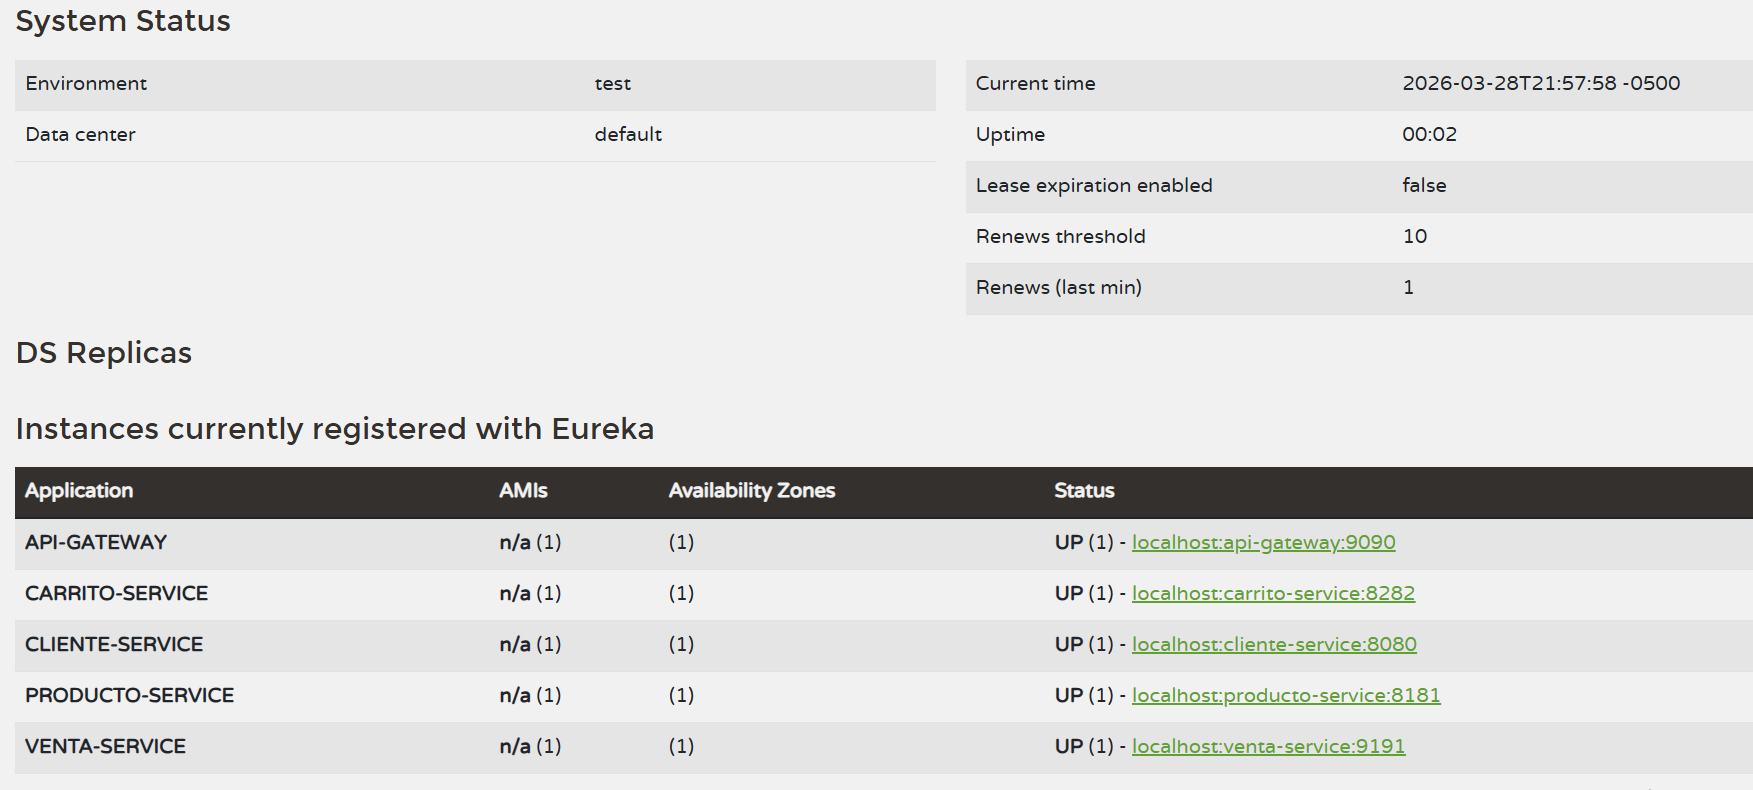
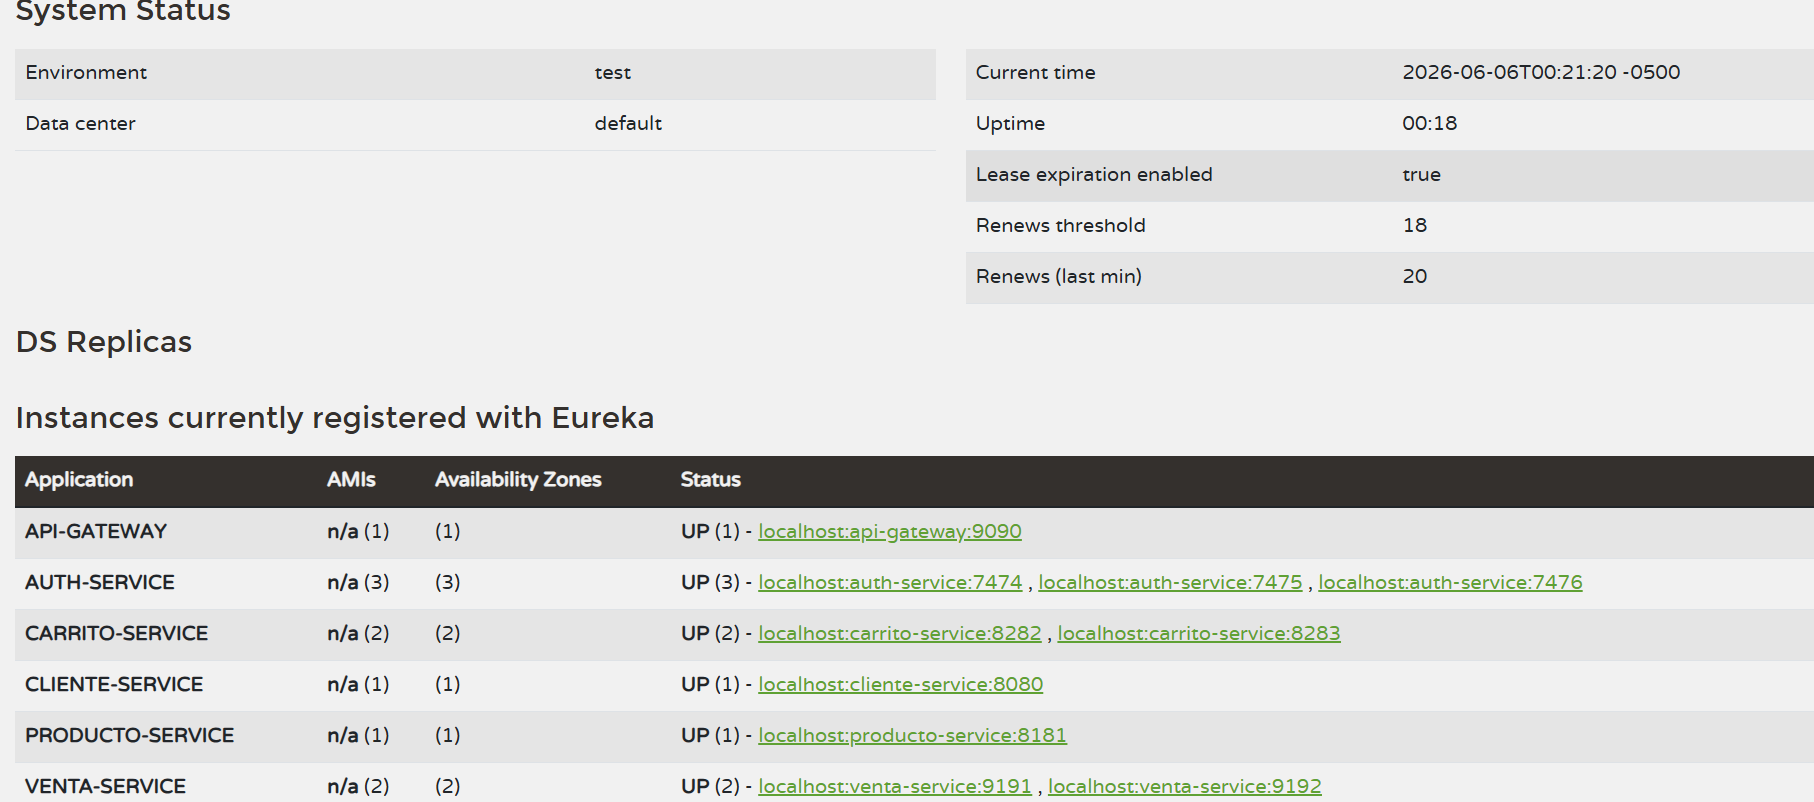
docs: mejorar documentación del proyecto en el README

diff --git a/README.md b/README.md
@@ -1,98 +1,201 @@
-# 🧭 Eureka Server - ElectrodoStore
+<div align="center">
 
-## 📌 Descripción
-Servidor de registro y descubrimiento de servicios para el ecosistema de
-microservicios de ElectrodoStore, basado en **Spring Cloud Netflix Eureka**.
+# 🧭 Eureka Server
 
-Permite que los microservicios se registren automáticamente y se descubran
-entre sí de forma dinámica, sin necesidad de conocer IPs o puertos fijos.
+### Registro y descubrimiento de servicios
+#### ElectrodoStore · Spring Cloud Netflix Eureka
 
----
+![Spring Boot](https://img.shields.io/badge/Spring_Boot-6DB33F?style=for-the-badge&logo=springboot&logoColor=white)
+![Spring Cloud](https://img.shields.io/badge/Spring_Cloud-6DB33F?style=for-the-badge&logo=spring&logoColor=white)
+![Netflix Eureka](https://img.shields.io/badge/Netflix_Eureka-E50914?style=for-the-badge&logo=netflix&logoColor=white)
+![Service Discovery](https://img.shields.io/badge/Service_Discovery-6DB33F?style=for-the-badge&logo=spring&logoColor=white)
 
-## ⚙ Tecnologías utilizadas
-
-- Java + Spring Boot
-- Spring Cloud Netflix Eureka Server
+</div>
 
 ---
 
-## 🔄 ¿Cómo funciona?
+Eureka Server actúa como el registro central de servicios dentro de **ElectrodoStore**.
 
-Al iniciar, cada microservicio se registra en Eureka con su nombre de
-aplicación. Cuando un servicio necesita comunicarse con otro, consulta
-a Eureka para obtener la ubicación de la instancia disponible.
-```
-Microservicio A → Eureka Server → Microservicio B
+Permite que los microservicios se registren automáticamente y descubran dinámicamente otras instancias disponibles sin depender de direcciones IP o puertos fijos.
+
+---
+
+## 🎯 Responsabilidades
+
+- 📍 Registro de microservicios
+- 🔍 Descubrimiento dinámico de servicios
+- ⚖ Soporte para balanceo de carga
+- 🌐 Catálogo centralizado de instancias
+- 🔗 Desacoplamiento entre consumidores y proveedores
+
+---
+
+## 🧰 Stack tecnológico
+
+![Spring Boot](https://img.shields.io/badge/Spring_Boot-6DB33F?style=flat-square&logo=springboot&logoColor=white)
+![Spring Cloud](https://img.shields.io/badge/Spring_Cloud-6DB33F?style=flat-square&logo=spring&logoColor=white)
+![Netflix Eureka](https://img.shields.io/badge/Netflix_Eureka-E50914?style=flat-square&logo=netflix&logoColor=white)
+
+---
+
+## 🌐 Ecosistema registrado
+
+```mermaid
+flowchart LR
+
+Gateway["🌐 API Gateway"]
+Auth["🔐 Auth Service"]
+Cliente["👤 Cliente Service"]
+Producto["🛍 Producto Service"]
+Carrito["🛒 Carrito Service"]
+Venta["💳 Venta Service"]
+Eureka["🧭 Eureka Server"]
+
+Gateway --> Eureka
+Auth --> Eureka
+Cliente --> Eureka
+Producto --> Eureka
+Carrito --> Eureka
+Venta --> Eureka
 ```
 
-Esto permite:
-- Descubrimiento dinámico sin IPs hardcodeadas
-- Detección automática de instancias caídas
-- Soporte para múltiples instancias del mismo servicio
+> Todos los servicios registran su ubicación en Eureka durante el arranque.
+
+---
+
+## 🔄 Descubrimiento de servicios
+
+Cuando un servicio necesita comunicarse con otro, consulta Eureka para obtener las instancias disponibles, eliminando dependencias directas y permitiendo escalar horizontalmente.
+
+```mermaid
+sequenceDiagram
+
+participant Cliente as 👤 Cliente Service
+participant Eureka as 🧭 Eureka Server
+participant Venta as 💳 Venta Service
+
+Cliente->>Eureka: Buscar venta-service
+Eureka-->>Cliente: Instancias registradas
+Cliente->>Venta: GET /ventas/cliente/{id}
+```
+
+---
+
+## ⚖ Integración con Load Balancer
+
+Los consumidores utilizan nombres lógicos de servicio, y Spring Cloud LoadBalancer consulta Eureka para seleccionar una instancia disponible.
+
+<table>
+<tr>
+<th>Via YAML</th>
+<th>Via OpenFeign</th>
+</tr>
+<tr>
+<td>
+
+```yaml
+uri: lb://venta-service
+```
+
+</td>
+<td>
+
+```java
+@FeignClient(name = "venta-service")
+```
+
+</td>
+</tr>
+</table>
 
 ---
 
 ## ⚙ Configuración destacada
 
 | Propiedad | Valor | Descripción |
-|---|---|---|
-| `register-with-eureka` | `false` | El servidor no se registra a sí mismo |
-| `fetch-registry` | `false` | No replica el registro de otros servidores |
-
----
-
-## 🔌 Configuración de red
-
-| Propiedad | Valor |
-|---|---|
-| Puerto | `8761` |
-| Acceso | ✅ Expuesto — acceso al dashboard habilitado |
-| Dashboard | `http://localhost:8761` |
+| --- | --- | --- |
+| `register-with-eureka` | `false` | Eureka no se registra a sí mismo |
+| `fetch-registry` | `false` | No replica registros externos |
 
 ---
 
 ## 📊 Dashboard
 
-Eureka expone un dashboard web en `http://localhost:8761` donde se pueden
-visualizar en tiempo real:
+Eureka expone un panel web para visualizar el estado del ecosistema en tiempo real:
 
-- Servicios registrados
-- Estado de cada instancia
-- Información de cada microservicio
-
+- Servicios registrados y sus instancias
+- Estado de salud de cada servicio
+- Direcciones disponibles
+- Información de descubrimiento
 
 ![Eureka Dashboard](./screenshots/eureka-dashboard.png)
+
+Eureka registrando múltiples instancias de Auth Service, Carrito Service y Venta Service para permitir descubrimiento dinámico y balanceo de carga mediante Spring Cloud LoadBalancer.
+
+| Propiedad | Valor |
+| --- | --- |
+| Puerto | `8761` |
+| Dashboard | `http://localhost:8761` |
+| Acceso | ✅ Interno y administrativo |
+
 ---
 
 ## ▶ Ejecución local
 
-**Con Maven**
+> ⚠ Eureka Server debe iniciarse **después de Config Server** y **antes de cualquier microservicio** consumidor.
+
+### Maven
+
 ```bash
-# Corre en el puerto 8761
 mvn spring-boot:run
 ```
 
-**Con Docker**
+### Docker
+
 ```bash
 docker build -t eureka-server .
 ```
 
-> ⚠ Este servicio debe iniciarse **después del Config Server** y
-> **antes que cualquier microservicio**, ya que todos dependen de él
-> para el descubrimiento dinámico.
+---
+
+## 🏗 Arquitectura
+
+- 🧭 Service Discovery mediante Eureka
+- ⚖ Integración con Spring Cloud LoadBalancer
+- 🔗 Resolución dinámica de dependencias
+- 🌐 Compatible con API Gateway y OpenFeign
+- 📍 Registro automático de instancias
 
 ---
 
 ## 💡 Decisiones de diseño
 
-- `register-with-eureka: false` — el servidor no actúa como cliente de sí mismo
-- `fetch-registry: false` — configuración adecuada para instancia única sin replicación
-- Puerto estándar de Eureka (`8761`) para facilitar integración con herramientas del ecosistema Spring
+<details>
+<summary><b>📍 Descubrimiento dinámico</b></summary>
+<br>
+Los servicios se comunican utilizando nombres lógicos en lugar de direcciones físicas, reduciendo el acoplamiento entre componentes.
+</details>
+
+<details>
+<summary><b>⚖ Integración con LoadBalancer</b></summary>
+<br>
+Las instancias disponibles son seleccionadas automáticamente por Spring Cloud LoadBalancer utilizando la información registrada en Eureka.
+</details>
+
+<details>
+<summary><b>🧭 Registro centralizado</b></summary>
+<br>
+Todos los microservicios comparten una única fuente de verdad para descubrir servicios dentro de la plataforma.
+</details>
 
 ---
 
 ## 🚀 Mejoras futuras
 
-- Alta disponibilidad con múltiples instancias de Eureka (Peer Awareness)
-- Seguridad con autenticación básica en el dashboard
-- Monitoreo con Spring Boot Actuator
+| Mejora | Descripción |
+| --- | --- |
+| 🏢 **Alta disponibilidad** | Clúster Eureka con Peer Awareness |
+| 🔐 **Seguridad** | Protección del dashboard administrativo |
+| 📊 **Observabilidad** | Métricas y monitoreo avanzado |
+| 🌎 **Multi-región** | Descubrimiento distribuido entre regiones |
+| ⚡ **Escalabilidad** | Replicación de registros entre nodos |
